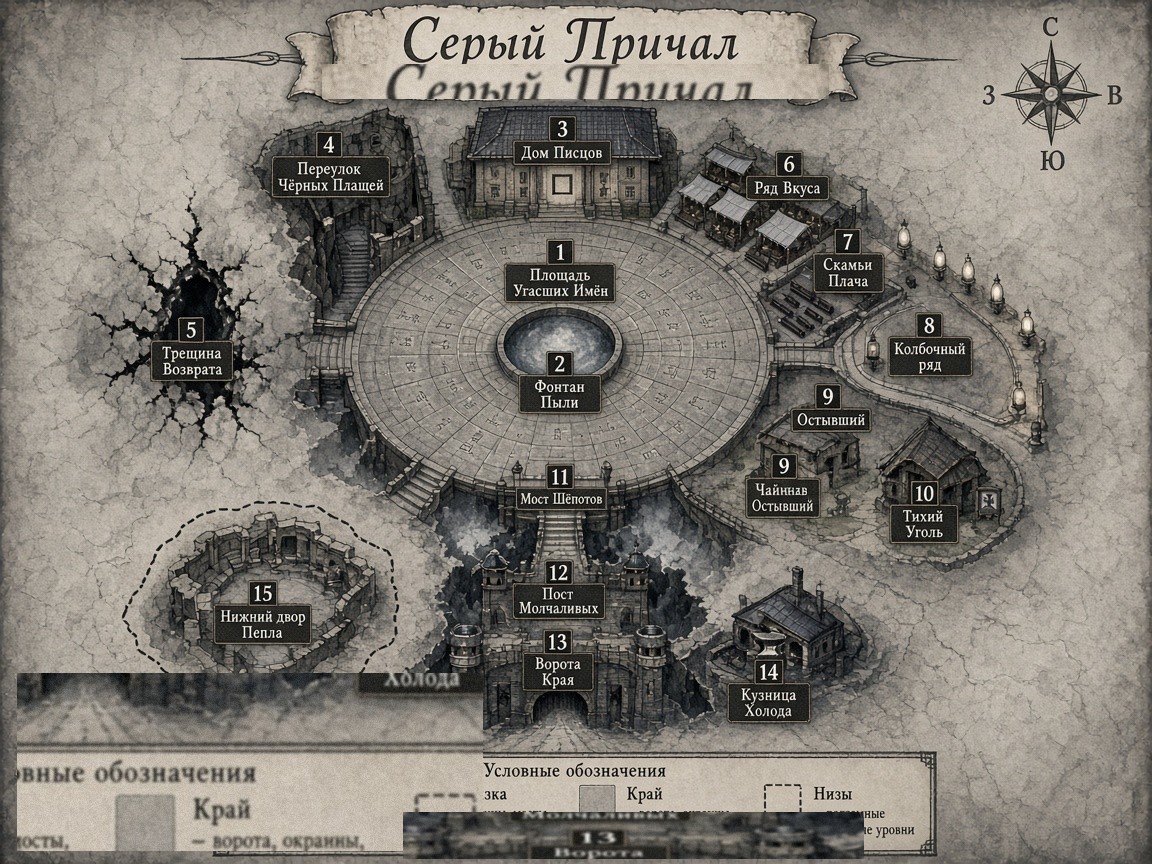
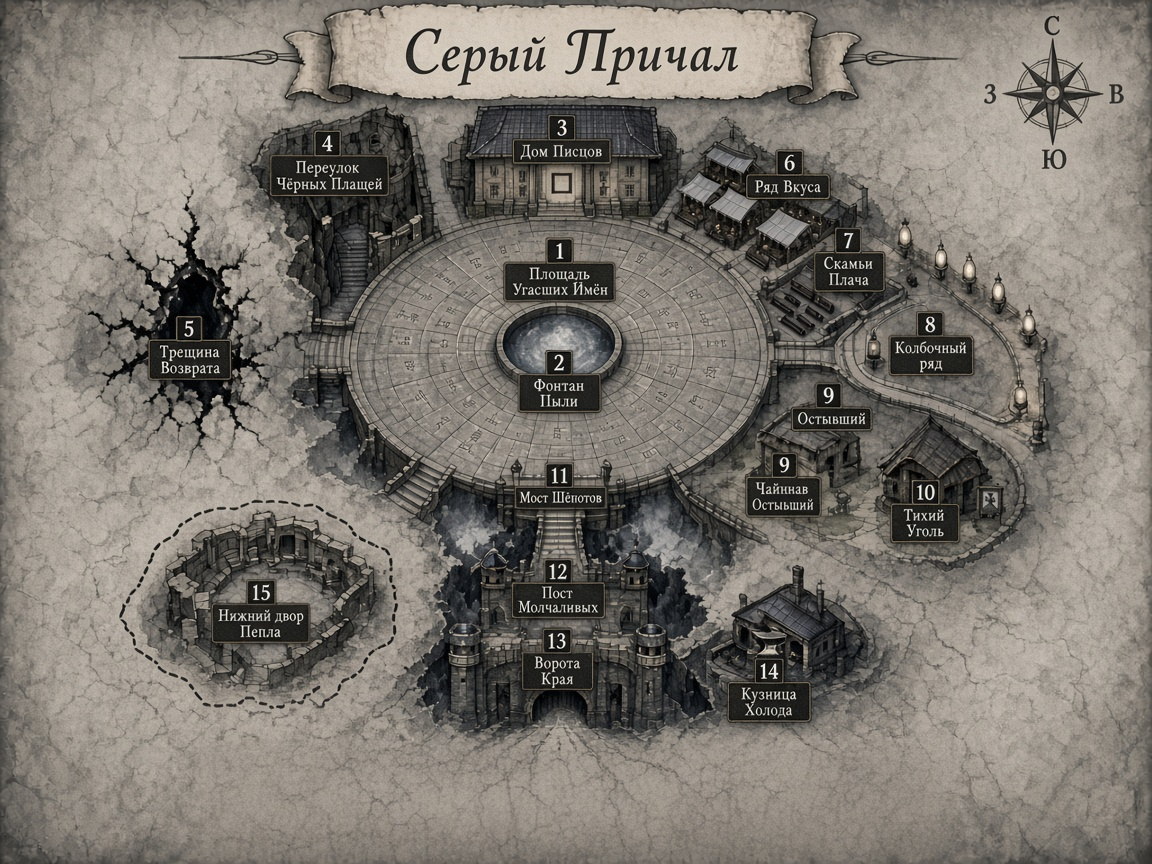
Sync playbook map index and legend notes to player map

diff --git a/campaign/prep/locations/seryy-prichal/map.md b/campaign/prep/locations/seryy-prichal/map.md
@@ -3,36 +3,35 @@ title: "Серый Причал — карта"
 slug: seryy-prichal
 status: prep
 source: gm-request-2026-09-22
+audience: players
 ---
 
 # Карта Серого Причала
 
 ![Серый Причал](map.png)
 
-**Версия для игроков** — без пометок про план/квест.
+**Для игроков.** Без спойлеров про план/квест. Без легенды «Центр/Связка/Край/Низы».
 
-Файлы:
-- [`map.png`](map.png)
-- архив: [`../../../../assets/maps/seryy-prichal/seryy-prichal-map.png`](../../../../assets/maps/seryy-prichal/seryy-prichal-map.png)
+Файлы: [`map.png`](map.png) · [`../../../../assets/maps/seryy-prichal/seryy-prichal-map.png`](../../../../assets/maps/seryy-prichal/seryy-prichal-map.png)
 
-## Легенда номеров (= playbook)
+## Номера на карте
 
-| # | Место | Зона |
-|---:|---|---|
-| 1 | Площадь Угасших Имён | Центр |
-| 2 | Фонтан Пыли | Центр |
-| 3 | Дом Писцов | Центр (север) |
-| 4 | Ряд Вкуса | Центр (восток) |
-| 5 | Скамьи Плача | Центр (восток) |
-| 6 | Колбочный ряд | Центр (восток) |
-| 7 | Чайная «Остывший Куст» | Центр |
-| 8 | Постоялый «Тихий Уголь» | Центр |
-| 9 | Мост Шёпотов | Связка (юг) |
-| 10 | Пост Молчаливых | Связка |
-| 11 | Ворота Края | Край (юг) |
-| 12 | Трещина Возврата | вход / запад площади |
-| 13 | Кузница Холода | Край |
-| 14 | Переулок Чёрных плащей | Низы (запад) |
-| 15 | Нижний двор Пепла | Низы (под площадью) |
+| # | Место |
+|---:|---|
+| 1 | Площадь Угасших Имён |
+| 2 | Фонтан Пыли |
+| 3 | Дом Писцов |
+| 4 | Переулок Чёрных плащей |
+| 5 | Трещина Возврата |
+| 6 | Ряд Вкуса |
+| 7 | Скамьи Плача |
+| 8 | Колбочный ряд |
+| 9 | Чайная «Остывший Куст» |
+| 10 | Постоялый «Тихий Уголь» |
+| 11 | Мост Шёпотов |
+| 12 | Пост Молчаливых |
+| 13 | Ворота Края |
+| 14 | Кузница Холода |
+| 15 | Нижний двор Пепла |
 
-Ориентиры: **север** = Писцы · **юг** = Край · **запад** = Трещина/Плащи · **восток** = вкус/плач/колбы.
+Ориентиры: **север** = Писцы · **юг** = Ворота · **запад** = Трещина · **восток** = ряды.

diff --git a/campaign/prep/locations/seryy-prichal/playbook.md b/campaign/prep/locations/seryy-prichal/playbook.md
@@ -56,25 +56,27 @@ sites_count: 15
 | Чёрные плащи | имена, Кардиан, охота на живых | кражи плит, слежка |
 | Отряд Велиана | диверсии | работает за Краем |
 
-## Оглавление — 15 мест
+## Оглавление — 15 мест *(номера = карта)*
 
 | # | Место | Зона |
 |---:|---|---|
 | 1 | Площадь Угасших Имён | Центр |
 | 2 | Фонтан Пыли | Центр |
 | 3 | Дом Писцов | Центр |
-| 4 | Ряд Вкуса | Центр |
-| 5 | Скамьи Плача | Центр |
-| 6 | Колбочный ряд | Центр |
-| 7 | Чайная «Остывший Куст» | Центр |
-| 8 | Постоялый «Тихий Уголь» | Центр |
-| 9 | Мост Шёпотов | Связка |
-| 10 | Пост Молчаливых | Связка |
-| 11 | Ворота Края | Край |
-| 12 | Трещина Возврата | Край / вход |
-| 13 | Кузница Холода | Край |
-| 14 | Переулок Чёрных плащей | Низы |
+| 4 | Переулок Чёрных плащей | Низы |
+| 5 | Трещина Возврата | Край / вход |
+| 6 | Ряд Вкуса | Центр |
+| 7 | Скамьи Плача | Центр |
+| 8 | Колбочный ряд | Центр |
+| 9 | Чайная «Остывший Куст» | Центр |
+| 10 | Постоялый «Тихий Уголь» | Центр |
+| 11 | Мост Шёпотов | Связка |
+| 12 | Пост Молчаливых | Связка |
+| 13 | Ворота Края | Край |
+| 14 | Кузница Холода | Край |
 | 15 | Нижний двор Пепла | Низы |
+
+> В тексте ниже заголовки мест сохранены; **номера на карте** — таблица выше.
 
 ## Индекс НПС
 
